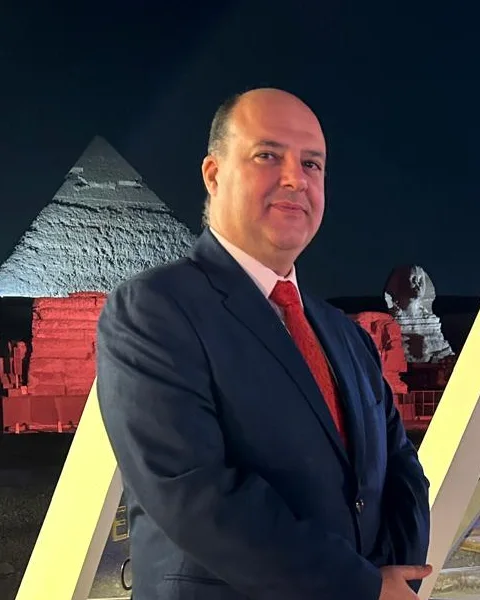
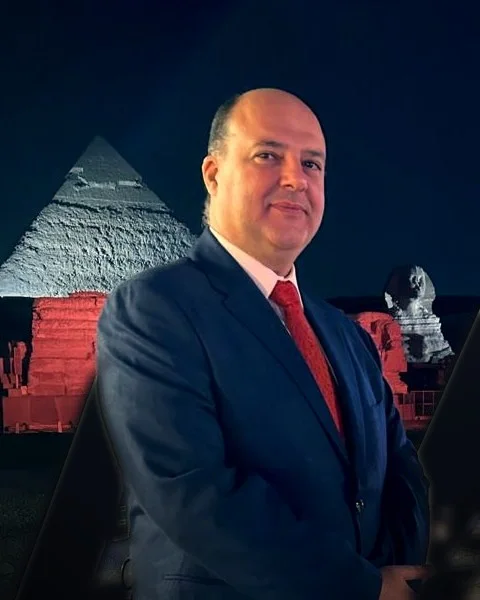
feat: motion for the profile photos; duotone reveal on the contact card (#19)
Hero: slow spinning accent ring, breathing glow, gentle float, a
transform-only entrance, and a pointer tilt on mouse and pen devices.
Contact: a tilted card with an offset amber frame. The photo shows in
the site's cyan duotone and washes into colour when scrolled into view,
and straightens and zooms on hover. The photo is regraded and retouched
so the event's frames no longer show. Reduced-motion users get both
photos at rest, in colour.

Claude-Session: https://claude.ai/code/session_0197Wypt8tzqXXY1bMcFLUWY

diff --git a/src/styles/components/contact.css b/src/styles/components/contact.css
@@ -6,26 +6,95 @@
   gap: clamp(var(--space-8), 6vw, var(--space-12));
 }
 
+/* Unlike the round hero photo: a tilted card with an offset amber frame,
+   shown in the site's cyan duotone until it washes into full colour. */
 .contact-photo {
+  position: relative;
   width: clamp(220px, 24vw, 320px);
   margin: 0;
 }
 
-.contact-photo img {
-  display: block;
-  width: 100%;
-  height: auto;
+/* Offset frame behind the card */
+.contact-photo::before {
+  content: '';
+  position: absolute;
+  inset: 0 0 auto;
+  aspect-ratio: 4 / 5;
+  border: 2px solid var(--accent-2);
+  border-radius: var(--radius-lg);
+  transform: translate(14px, 14px) rotate(3deg);
+  transition: transform 600ms var(--ease-out);
+}
+
+.contact-frame {
+  position: relative;
+  overflow: hidden;
   border: 1px solid var(--line);
   border-radius: var(--radius-lg);
   box-shadow: 0 24px 60px -28px color-mix(in srgb, var(--accent) 50%, transparent);
+  transform: rotate(-2deg);
+  transition: transform 600ms var(--ease-out);
+}
+
+.contact-frame img {
+  display: block;
+  width: 100%;
+  height: auto;
+  transform: scale(1.04);
+  transition: transform 1600ms var(--ease-out);
+}
+
+/* Duotone layer: keeps the photo's light and shade, swaps its colours for the accent */
+.contact-frame::after {
+  content: '';
+  position: absolute;
+  inset: 0;
+  background: linear-gradient(
+    160deg,
+    var(--accent),
+    color-mix(in srgb, var(--accent) 40%, #071420)
+  );
+  mix-blend-mode: color;
+  clip-path: inset(0 0 0 0);
+  transition: clip-path 2200ms cubic-bezier(0.65, 0, 0.35, 1) 500ms;
+  pointer-events: none;
+}
+
+/* Revealed (photo-motion.ts adds it on scroll; without JS it's on from the start) */
+.contact-photo:not([data-reveal='pending']) .contact-frame::after {
+  clip-path: inset(100% 0 0 0); /* the duotone slides down: colour arrives face first */
+}
+
+/* Hover or keyboard focus nearby: the card straightens and the photo eases in */
+.contact-photo:hover .contact-frame,
+.contact-inner:focus-within .contact-frame {
+  transform: rotate(0deg);
+}
+
+.contact-photo:hover::before,
+.contact-inner:focus-within .contact-photo::before {
+  transform: translate(8px, 8px) rotate(0deg);
+}
+
+.contact-photo:hover img {
+  transform: scale(1.1);
 }
 
 .contact-photo figcaption {
-  margin-top: var(--space-3);
+  margin-top: var(--space-6);
   color: var(--text-muted);
   font-family: var(--font-mono);
   font-size: 0.8rem;
   text-align: center;
+}
+
+@media (prefers-reduced-motion: reduce) {
+  .contact-photo::before,
+  .contact-frame,
+  .contact-frame img,
+  .contact-frame::after {
+    transition: none;
+  }
 }
 
 @media (max-width: 760px) {
@@ -34,6 +103,6 @@
   }
 
   .contact-photo {
-    width: min(100%, 280px);
+    width: min(100% - 20px, 280px);
   }
 }

diff --git a/src/styles/components/hero.css b/src/styles/components/hero.css
@@ -90,21 +90,56 @@
 }
 
 .hero-photo {
+  --tilt-x: 0deg; /* set by photo-motion.ts from the pointer position */
+  --tilt-y: 0deg;
+
   position: relative;
   width: clamp(240px, 26vw, 360px);
   margin: 0;
   aspect-ratio: 1;
+  perspective: 900px;
+  animation:
+    photo-in 900ms var(--ease-out) both,
+    photo-float 7s ease-in-out 900ms infinite;
 }
 
-/* A soft ring in the accent colors, so the photo belongs to the dark theme */
+/* The accent ring: a conic gradient that turns slowly behind the photo */
 .hero-photo::before {
   content: '';
   position: absolute;
   inset: -6px;
   z-index: -1;
   border-radius: 50%;
-  background: conic-gradient(from 210deg, var(--accent), var(--accent-2), var(--accent));
-  opacity: 0.85;
+  background: conic-gradient(
+    from 0deg,
+    var(--accent),
+    transparent 30%,
+    var(--accent-2) 55%,
+    transparent 80%,
+    var(--accent)
+  );
+  animation: ring-spin 14s linear infinite;
+}
+
+/* A soft glow that breathes with the ring */
+.hero-photo::after {
+  content: '';
+  position: absolute;
+  inset: 8%;
+  z-index: -2;
+  border-radius: 50%;
+  background: var(--accent);
+  filter: blur(48px);
+  opacity: 0.25;
+  animation: glow-pulse 7s ease-in-out infinite;
+}
+
+.hero-photo-inner {
+  width: 100%;
+  height: 100%;
+  border-radius: 50%;
+  transform: rotateX(var(--tilt-x)) rotateY(var(--tilt-y));
+  transition: transform 400ms var(--ease-out);
 }
 
 .hero-photo img {
@@ -114,6 +149,44 @@
   border: 4px solid var(--bg);
   border-radius: 50%;
   object-fit: cover;
+}
+
+/* Transform-only entrance: the photo paints at once (no opacity fade delaying LCP) */
+@keyframes photo-in {
+  from {
+    transform: scale(0.86) rotate(-6deg);
+  }
+}
+
+@keyframes photo-float {
+  50% {
+    translate: 0 -10px;
+  }
+}
+
+@keyframes ring-spin {
+  to {
+    rotate: 1turn;
+  }
+}
+
+@keyframes glow-pulse {
+  50% {
+    opacity: 0.45;
+    scale: 1.08;
+  }
+}
+
+@media (prefers-reduced-motion: reduce) {
+  .hero-photo,
+  .hero-photo::before,
+  .hero-photo::after {
+    animation: none;
+  }
+
+  .hero-photo-inner {
+    transform: none;
+  }
 }
 
 @media (max-width: 860px) {

diff --git a/index.html b/index.html
@@ -177,15 +177,17 @@
               <a class="btn btn-ghost" href="#contact">Get in touch</a>
             </div>
           </div>
-          <figure class="hero-photo">
-            <img
-              src="/assets/img/mostafa-hero.webp"
-              width="400"
-              height="400"
-              alt="Mostafa Safwat Ibrahim in a navy suit, with the Giza pyramids and the Sphinx lit up at night behind him"
-              fetchpriority="high"
-              decoding="async"
-            />
+          <figure class="hero-photo" data-tilt>
+            <div class="hero-photo-inner">
+              <img
+                src="/assets/img/mostafa-hero.webp"
+                width="400"
+                height="400"
+                alt="Mostafa Safwat Ibrahim in a navy suit, with the Giza pyramids and the Sphinx lit up at night behind him"
+                fetchpriority="high"
+                decoding="async"
+              />
+            </div>
           </figure>
         </div>
       </section>
@@ -467,15 +469,17 @@
               </a>
             </div>
           </div>
-          <figure class="contact-photo">
-            <img
-              src="/assets/img/mostafa-contact.webp"
-              width="480"
-              height="600"
-              alt="Mostafa Safwat Ibrahim at an evening event at the Giza pyramids, Cairo"
-              loading="lazy"
-              decoding="async"
-            />
+          <figure class="contact-photo" data-reveal>
+            <div class="contact-frame">
+              <img
+                src="/assets/img/mostafa-contact.webp"
+                width="480"
+                height="600"
+                alt="Mostafa Safwat Ibrahim at an evening event at the Giza pyramids, Cairo"
+                loading="lazy"
+                decoding="async"
+              />
+            </div>
             <figcaption>Cairo, Egypt · working remotely</figcaption>
           </figure>
         </div>

diff --git a/src/modules/photo-motion.ts b/src/modules/photo-motion.ts
@@ -1,0 +1,48 @@
+import { prefersReducedMotion } from '../lib/motion';
+
+const MAX_TILT = 10; // degrees at the edge of the hero
+
+/**
+ * Motion for the two profile photos.
+ * - Hero: the round photo tilts toward the pointer (mouse and pen only).
+ * - Contact: the card stays in duotone until it scrolls into view, then washes into colour.
+ * CSS does the drawing; this only sets a class and two custom properties.
+ */
+export function initPhotoMotion(): void {
+  if (prefersReducedMotion()) return; // CSS already shows both photos at rest, in colour
+
+  const hero = document.querySelector<HTMLElement>('.hero');
+  const photo = document.querySelector<HTMLElement>('[data-tilt]');
+  if (hero && photo && window.matchMedia('(hover: hover) and (pointer: fine)').matches) {
+    let frame = 0;
+    hero.addEventListener('pointermove', (event) => {
+      cancelAnimationFrame(frame);
+      frame = requestAnimationFrame(() => {
+        const box = photo.getBoundingClientRect();
+        const dx = (event.clientX - (box.left + box.width / 2)) / hero.clientWidth;
+        const dy = (event.clientY - (box.top + box.height / 2)) / hero.clientHeight;
+        photo.style.setProperty('--tilt-y', `${(dx * MAX_TILT * 2).toFixed(2)}deg`);
+        photo.style.setProperty('--tilt-x', `${(-dy * MAX_TILT * 2).toFixed(2)}deg`);
+      });
+    });
+    hero.addEventListener('pointerleave', () => {
+      cancelAnimationFrame(frame);
+      photo.style.setProperty('--tilt-x', '0deg');
+      photo.style.setProperty('--tilt-y', '0deg');
+    });
+  }
+
+  const card = document.querySelector<HTMLElement>('[data-reveal]');
+  if (card) {
+    card.dataset.reveal = 'pending';
+    const observer = new IntersectionObserver(
+      ([entry]) => {
+        if (!entry?.isIntersecting) return;
+        card.dataset.reveal = 'done';
+        observer.disconnect();
+      },
+      { threshold: 0.6 },
+    );
+    observer.observe(card);
+  }
+}

diff --git a/src/main.ts b/src/main.ts
@@ -25,6 +25,7 @@ afterPaint(() => {
   void import('./modules/hero-canvas').then(({ initHeroCanvas }) =>
     initHeroCanvas(qs<HTMLCanvasElement>('.hero-canvas')),
   );
+  void import('./modules/photo-motion').then(({ initPhotoMotion }) => initPhotoMotion());
 });
 
 // ---- Below the fold: each section loads its code (and GSAP) on approach ----
